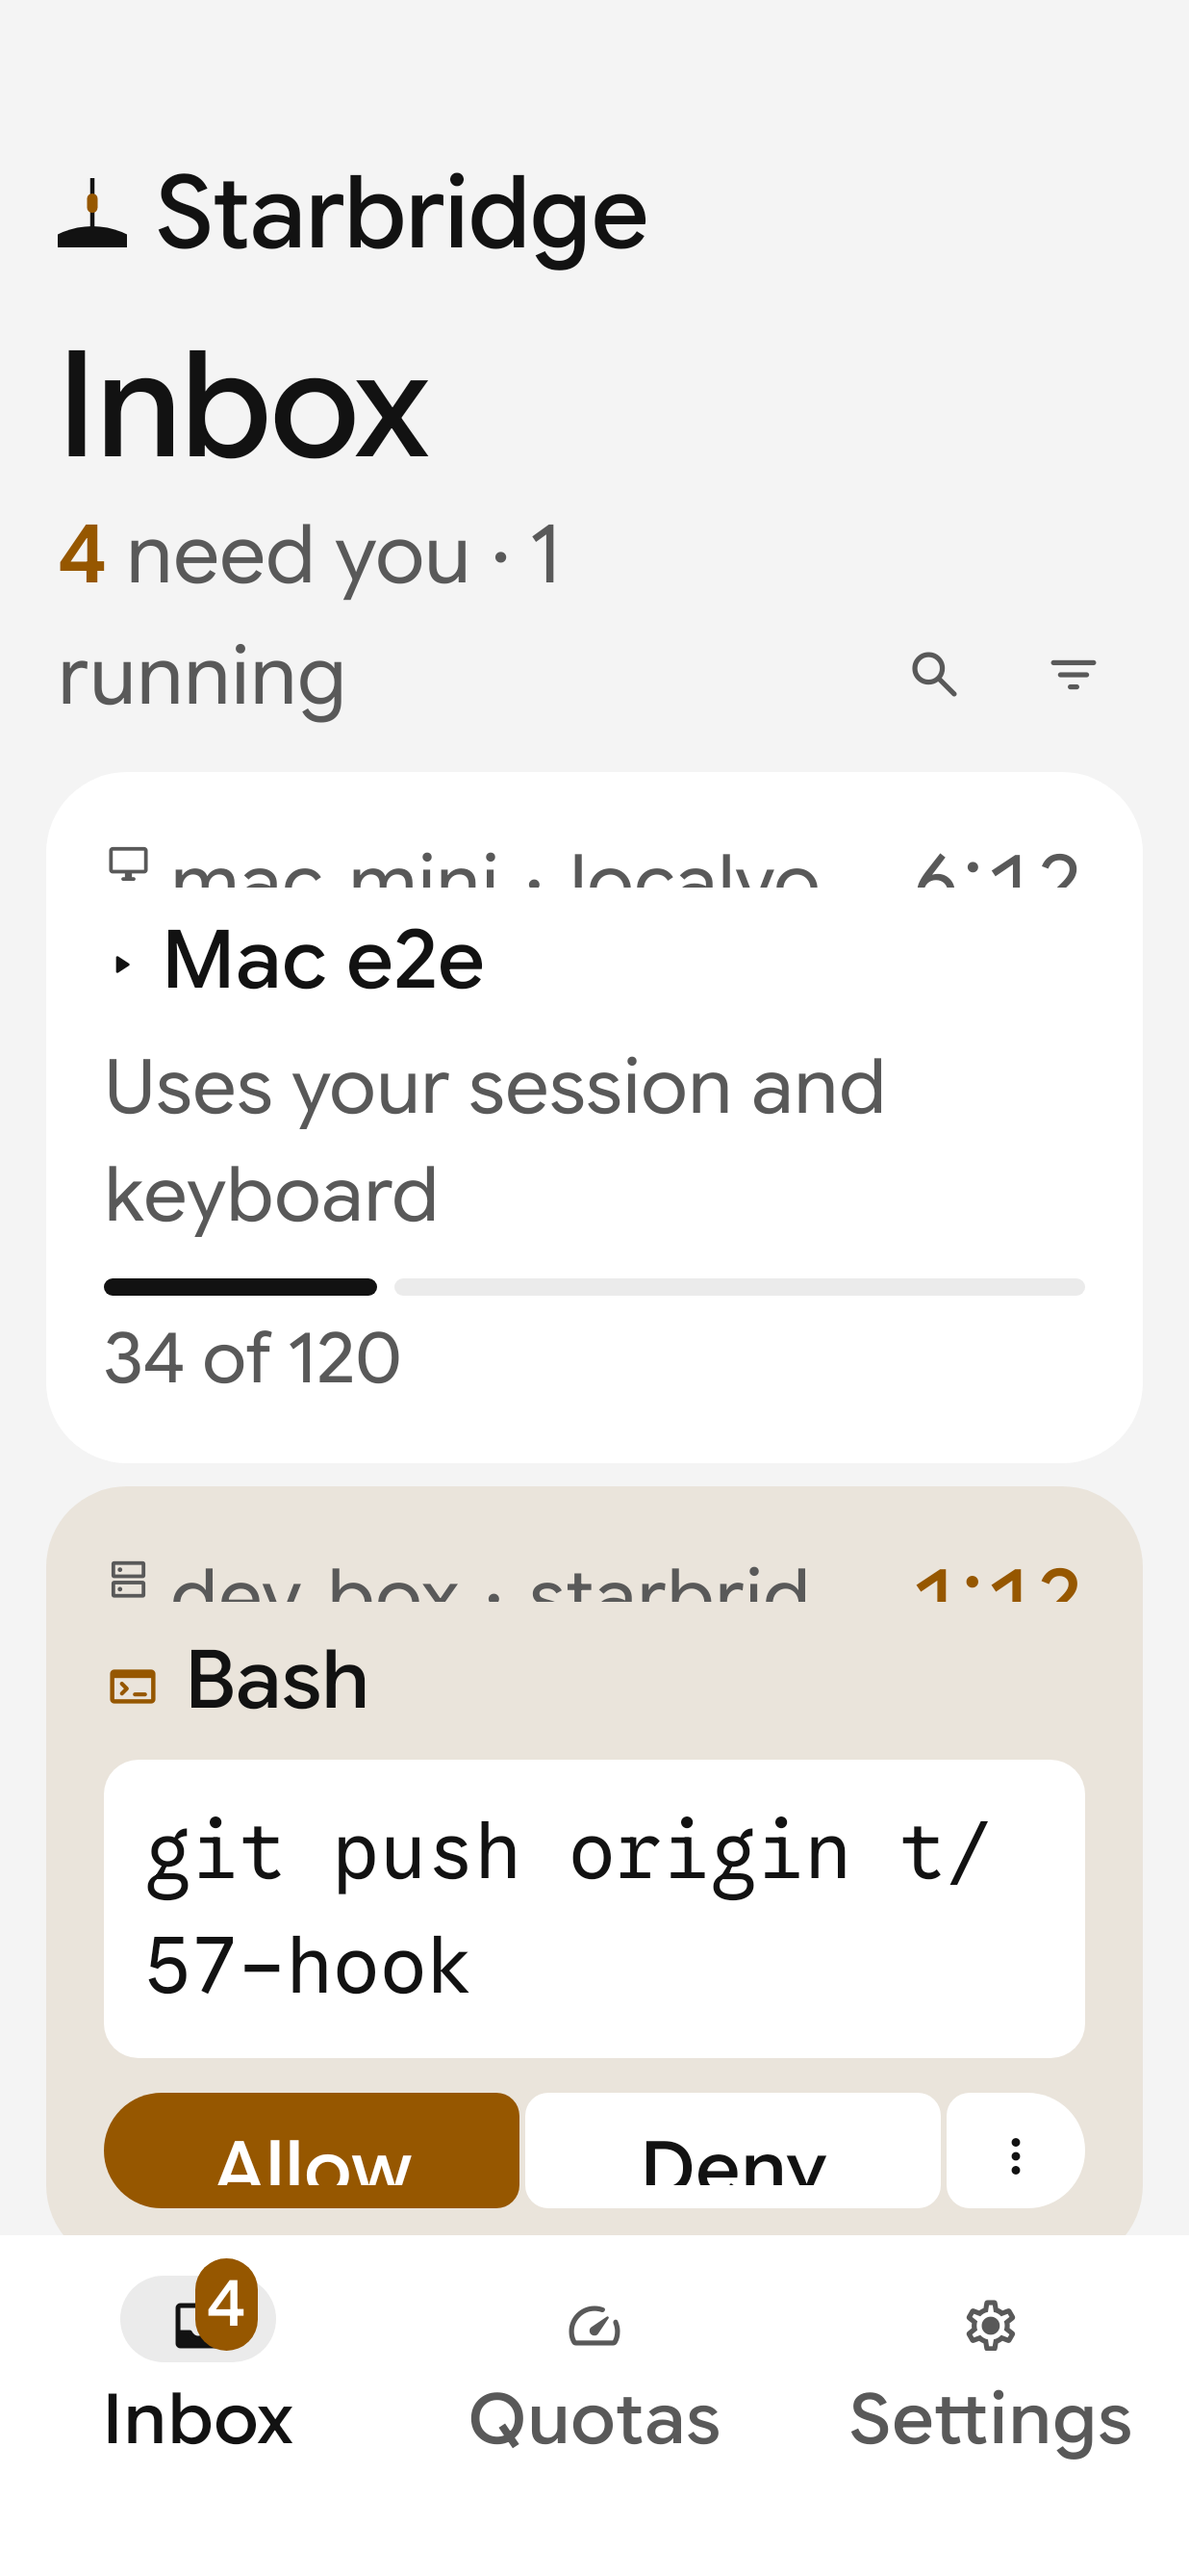
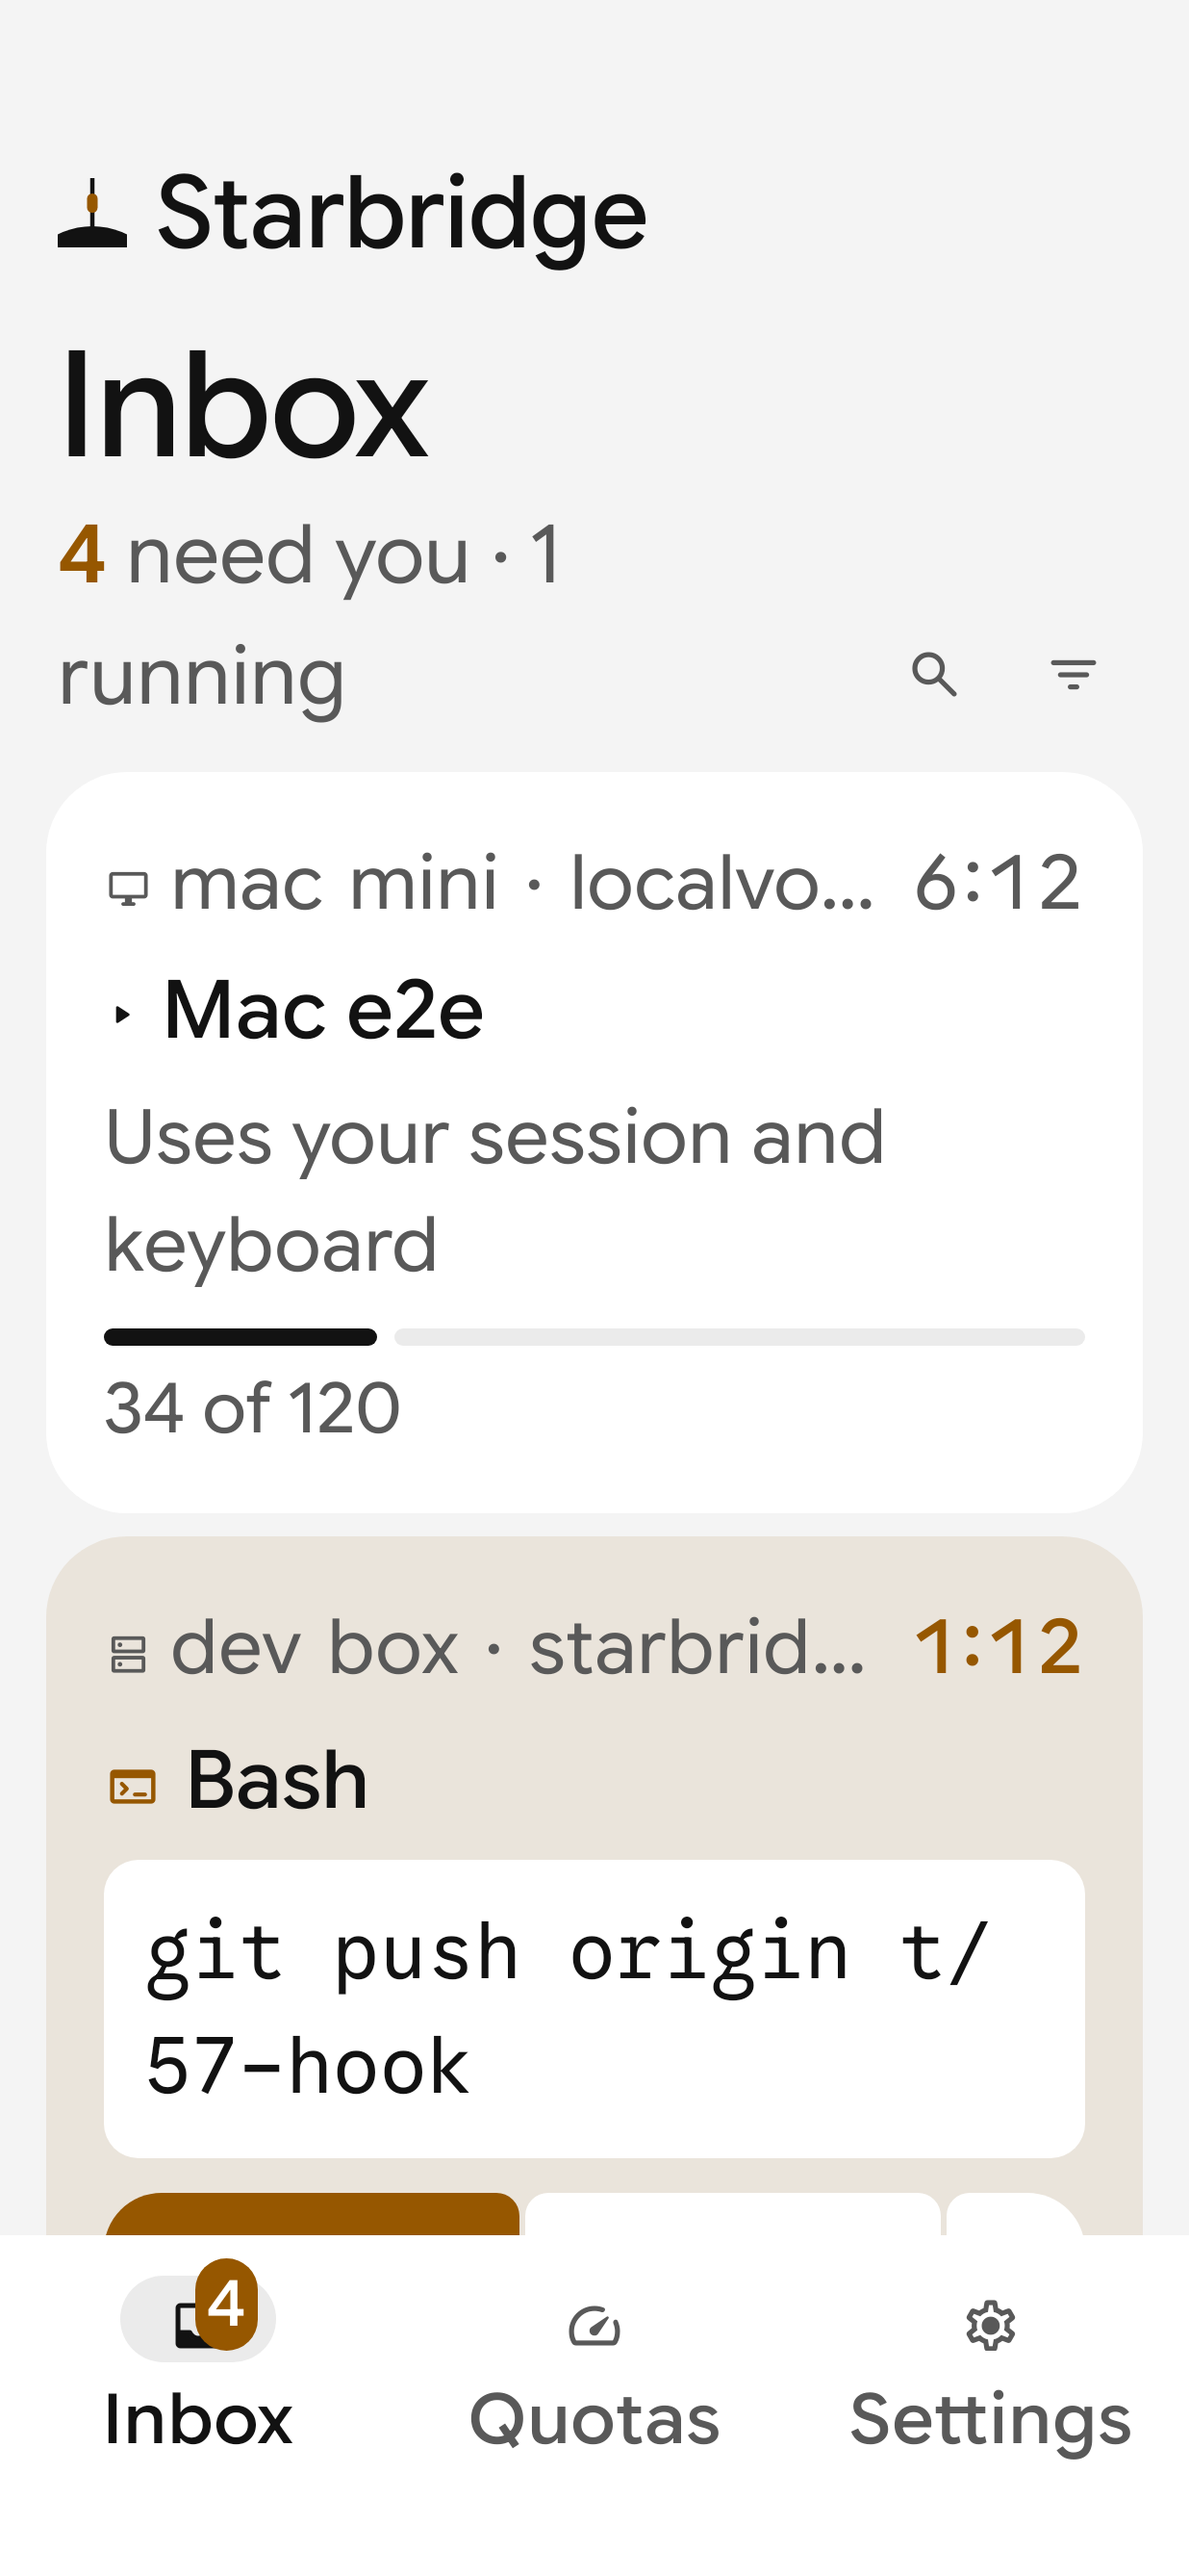
Inbox: the meta row and Allow and Deny grow with the font; one-line tool and answer lines end in an ellipsis
At 1.3x and 2x the 20 dp meta row and the 40 dp Allow and Deny cut their text in half, and a long MCP tool name or answer was clipped mid-letter.

diff --git a/android/app/src/main/kotlin/dev/starbridge/app/ui/inbox/Prompts.kt b/android/app/src/main/kotlin/dev/starbridge/app/ui/inbox/Prompts.kt
@@ -1,5 +1,7 @@
 package dev.starbridge.app.ui.inbox
 
+import androidx.compose.runtime.CompositionLocalProvider
+import androidx.compose.material3.LocalMinimumInteractiveComponentSize
 import androidx.compose.foundation.layout.widthIn
 import dev.starbridge.app.data.PromptScope
 import androidx.compose.ui.draw.clip
@@ -132,13 +134,15 @@ private fun rememberSend(prompt: Prompt, actions: PromptActions): Pair<Boolean, 
 private fun AllowDeny(height: Dp, enabled: Boolean, ground: Color, onAllow: () -> Unit, onDeny: () -> Unit, trailing: (@Composable () -> Unit)? = null) {
     val colors = StarbridgeTheme.colors
     val end = height / 2
-    Row(horizontalArrangement = Arrangement.spacedBy(2.dp)) {
+    // [height] at the default font size, taller when the labels need it; never padded to 48 dp,
+    // as the design sets them under it.
+    CompositionLocalProvider(LocalMinimumInteractiveComponentSize provides Dp.Unspecified) { Row(horizontalArrangement = Arrangement.spacedBy(2.dp)) {
         Button(
             onClick = onAllow,
             enabled = enabled,
             shape = RoundedCornerShape(topStart = end, bottomStart = end, topEnd = 8.dp, bottomEnd = 8.dp),
             colors = ButtonDefaults.buttonColors(containerColor = colors.accent, contentColor = colors.onAccent, disabledContainerColor = colors.accent, disabledContentColor = colors.onAccent),
-            modifier = Modifier.weight(1f).height(height),
+            modifier = Modifier.weight(1f).heightIn(min = height),
         ) { Text("Allow", style = if (height > 48.dp) StarbridgeTheme.type.action else StarbridgeTheme.type.label) }
         val last = trailing == null
         Button(
@@ -146,10 +150,10 @@ private fun AllowDeny(height: Dp, enabled: Boolean, ground: Color, onAllow: () -
             enabled = enabled,
             shape = RoundedCornerShape(topStart = 8.dp, bottomStart = 8.dp, topEnd = if (last) end else 8.dp, bottomEnd = if (last) end else 8.dp),
             colors = ButtonDefaults.buttonColors(containerColor = ground, contentColor = MaterialTheme.colorScheme.onSurface),
-            modifier = Modifier.weight(1f).height(height),
+            modifier = Modifier.weight(1f).heightIn(min = height),
         ) { Text("Deny", style = if (height > 48.dp) StarbridgeTheme.type.action else StarbridgeTheme.type.label) }
         trailing?.invoke()
-    }
+    } }
 }
 
 /**
@@ -210,7 +214,7 @@ private fun ToolLine(prompt: Prompt, style: TextStyle, icon: Dp, waiting: Boolea
     Row(verticalAlignment = Alignment.CenterVertically) {
         Symbol(Sym.Terminal, size = icon, tint = if (waiting) StarbridgeTheme.colors.accent else MaterialTheme.colorScheme.onSurfaceVariant)
         Spacer(Modifier.width(Spacing.s2))
-        Text(prompt.tool, style = style, color = MaterialTheme.colorScheme.onSurface, maxLines = 1, modifier = Modifier.weight(1f))
+        Text(prompt.tool, style = style, color = MaterialTheme.colorScheme.onSurface, maxLines = 1, overflow = TextOverflow.Ellipsis, modifier = Modifier.weight(1f))
         if (!waiting) Text(prompt.ended.orEmpty(), style = StarbridgeTheme.type.small, color = MaterialTheme.colorScheme.onSurfaceVariant)
     }
 }

diff --git a/android/app/src/main/kotlin/dev/starbridge/app/ui/inbox/Meta.kt b/android/app/src/main/kotlin/dev/starbridge/app/ui/inbox/Meta.kt
@@ -4,7 +4,7 @@ import androidx.compose.foundation.clickable
 import androidx.compose.foundation.layout.Arrangement
 import androidx.compose.foundation.layout.Row
 import androidx.compose.foundation.layout.Spacer
-import androidx.compose.foundation.layout.height
+import androidx.compose.foundation.layout.heightIn
 import androidx.compose.foundation.layout.padding
 import androidx.compose.foundation.layout.width
 import androidx.compose.material3.MaterialTheme
@@ -49,7 +49,7 @@ fun machineSym(kind: String?) = when (kind) {
 fun MetaRow(source: Source, time: String, modifier: Modifier = Modifier, clock: Boolean = false, words: List<String> = emptyList()) {
     val color = MaterialTheme.colorScheme.onSurfaceVariant
     val style = StarbridgeTheme.type.machine
-    Row(modifier.height(20.dp), verticalAlignment = Alignment.CenterVertically) {
+    Row(modifier.heightIn(min = 20.dp), verticalAlignment = Alignment.CenterVertically) {
         Symbol(machineSym(source.machineKind), size = 17.dp, tint = color)
         Spacer(Modifier.width(6.dp))
         Text(
@@ -143,7 +143,7 @@ fun SessionLine(source: Source, agent: String?, modifier: Modifier = Modifier) {
             },
             style = StarbridgeTheme.type.small,
             color = scheme.onSurfaceVariant,
-            maxLines = 1,
+            maxLines = 1, overflow = TextOverflow.Ellipsis,
             modifier = Modifier.weight(1f),
         )
         if (link != null && app != null) {

diff --git a/android/app/src/main/kotlin/dev/starbridge/app/ui/inbox/InboxScreen.kt b/android/app/src/main/kotlin/dev/starbridge/app/ui/inbox/InboxScreen.kt
@@ -719,7 +719,7 @@ internal fun HistoryRow(
         Column(Modifier.padding(horizontal = Spacing.s5, vertical = Spacing.s3), verticalArrangement = Arrangement.spacedBy(2.dp)) {
             MetaRow(source, time, clock = clock, words = words)
             Text(highlight(text, words, hit), style = if (prompt) StarbridgeTheme.type.code.copy(fontSize = 13.sp) else StarbridgeTheme.type.small, color = scheme.onSurface, maxLines = 1, overflow = TextOverflow.Ellipsis)
-            if (how.isNotEmpty()) Text(highlight(how, words, hit), style = StarbridgeTheme.type.meta, color = scheme.onSurfaceVariant, maxLines = 1)
+            if (how.isNotEmpty()) Text(highlight(how, words, hit), style = StarbridgeTheme.type.meta, color = scheme.onSurfaceVariant, maxLines = 1, overflow = TextOverflow.Ellipsis)
         }
     }
 }
